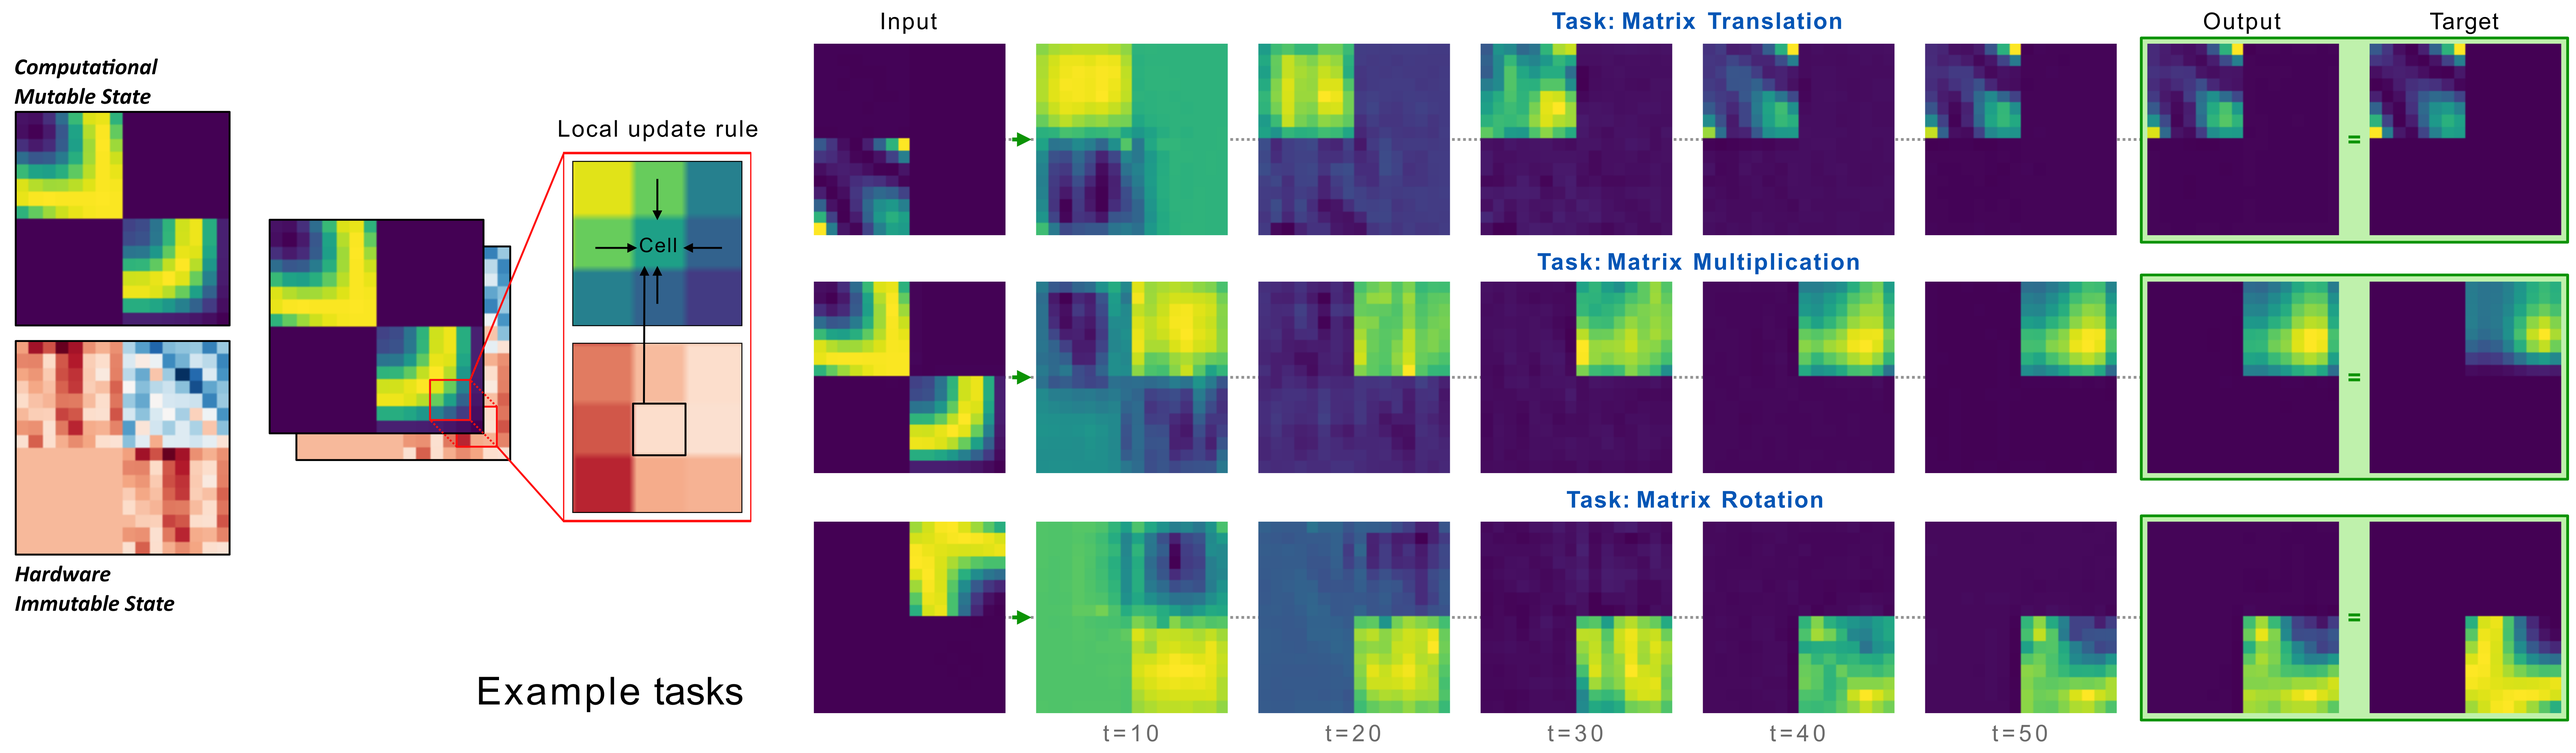
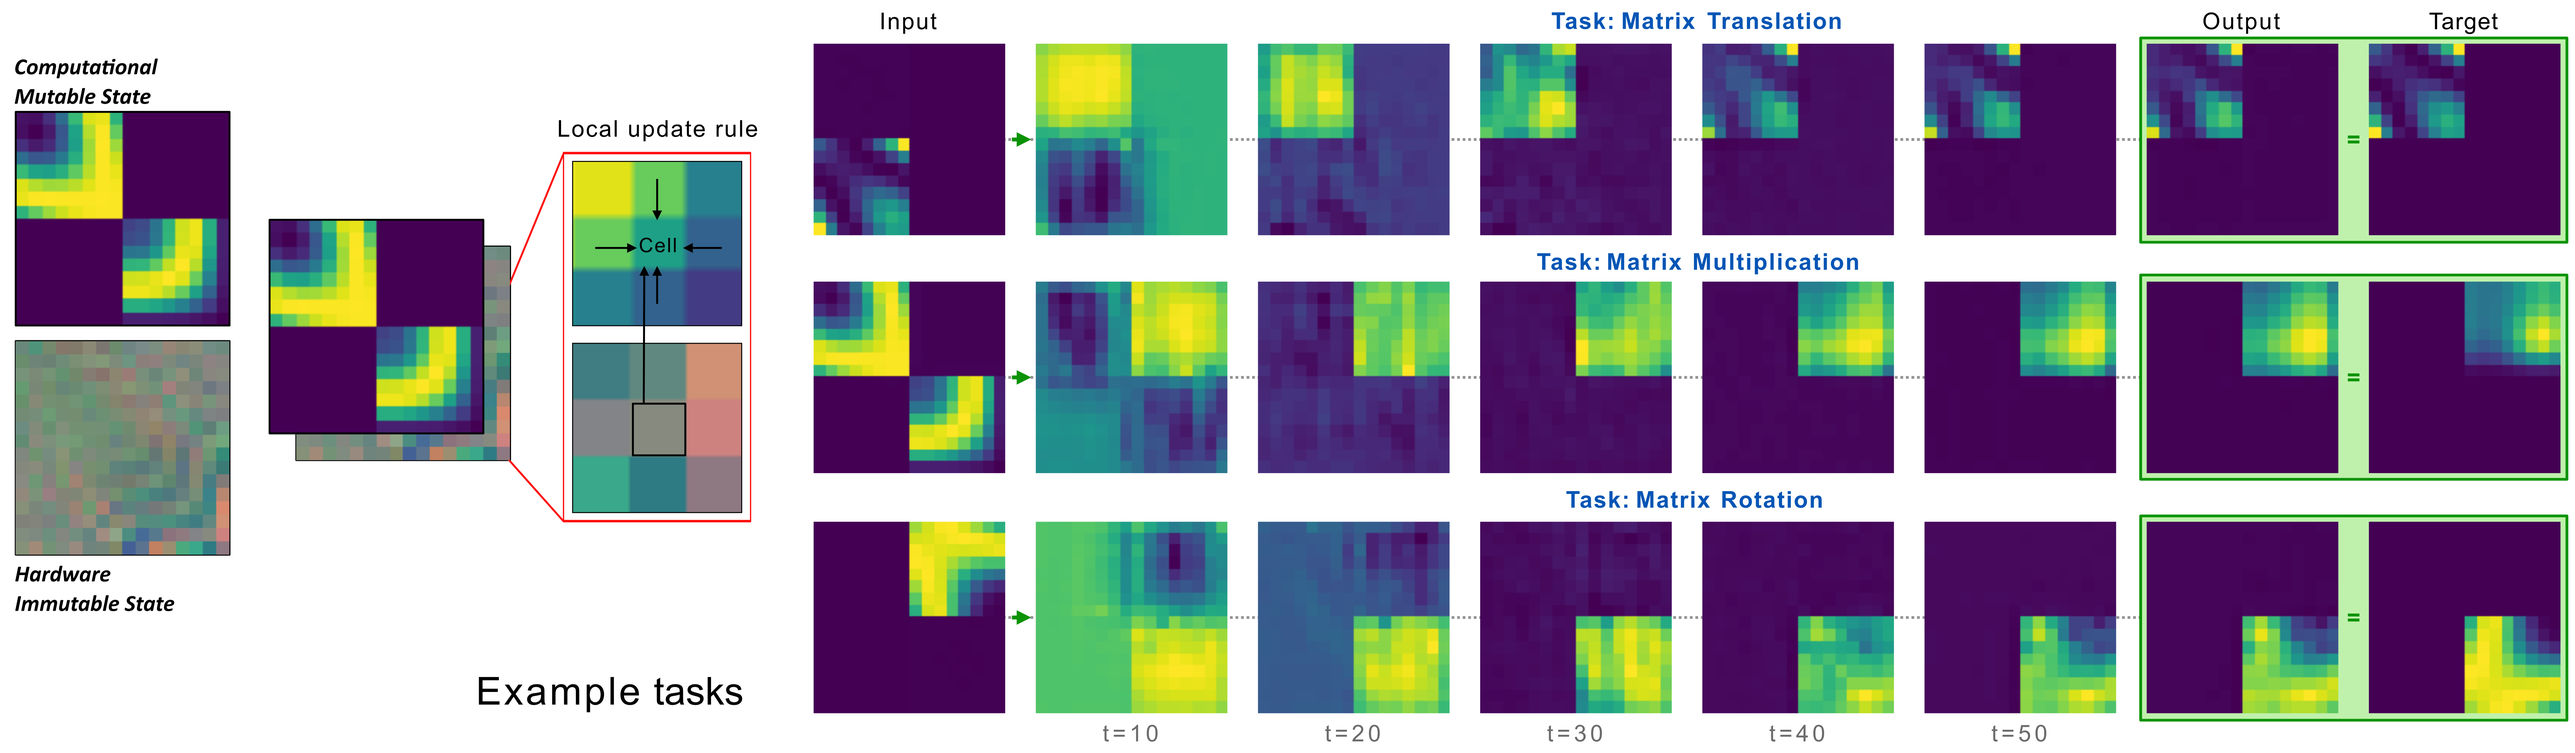
Latest related work and refs + better figs

Changed region(s): [[0.0, 0.3086, 0.3114, 0.7407]]

diff --git a/_posts/2025-05-12-distill_compact.md b/_posts/2025-05-12-distill_compact.md
@@ -50,7 +50,6 @@ toc:
       - name: MNIST Classifier emulation
       - name: Future directions - task composition and neural compiler
   - name: Conclusion
-
 ---
 
 <!-- <d-article> -->
@@ -78,6 +77,8 @@ The lack of discrete states and well-defined transitions makes it harder to enco
 
 Neural Cellular Automata (NCA) represent a paradigm shift by replacing hand-crafted rules with neural networks trained via gradient descent <d-cite key="nca"></d-cite>. Unlike traditional CA with explicitly handcrafted rules, NCA leverage differentiable architectures where the update rule is parameterized by a neural network and optimized end-to-end. This makes it possible to _learn_ complex behaviors from data, bypassing the need for manual rule design. NCAs have demonstrated success in tasks ranging from morphogenesis <d-cite key="nca"></d-cite> and classification <d-cite key="self_classifying"></d-cite> to solving reasoning challenges <d-cite key="cax"></d-cite> and growing neural networks <d-cite key="hypernca"></d-cite>. Given the Turing completeness of classical CA, NCA offer an exciting opportunity to search for computational rules through optimization, turning rule discovery into a machine learning problem. This shift is significant: the traditionally arduous task of hand-crafting rule sets that give rise to desired behaviors is now offloaded to the learning algorithm itself.
 
+It is important to note that the use of NCA in computational settings has precedent. Matrix copy and multiplication tasks were first implemented with NCA by Peter Whidden <d-cite key="comp_nca"></d-cite>, and our approach builds upon this foundational idea that NCA can serve as a continuous computational substrate. Very recently, researchers have demonstrated that NCA rules can be implemented using differentiable logic gates <d-cite key="difflogic_nca"></d-cite>, confirming the possibility of running self-organizing systems on standard digital hardware. Finally, in parallel to our work, a similar approach <d-cite key="engram_nca"></d-cite> was developed where cells augmented with "private memory tapes" were shown to exhibit stable, multi-task capabilities, further validating the potential of NCA as versatile computing platforms.
+
 Our work connects to analog computing and neuromorphic systems, which leverage biological principles like local computations <d-cite key="small_world,modular_brain,Bullmore2012TheEO"></d-cite> and co-located memory and processing to overcome the von Neumann bottleneck <d-cite key="bottlneck"></d-cite>. Neuromorphic systems implement these principles through distributed processing elements with local memory, using mixed-signal circuits that approximate neural dynamics while maintaining energy efficiency <d-cite key="neuromorphic_mead,neuromorphic_review,schuman2017surveyneuromorphiccomputingneural"></d-cite>. By exploring how systems with local interactions can implement universal computation, we aim to develop computing architectures that balance computational power with the efficiency characteristic of biological intelligence.
 
 In this work, we explore the potential of the Neural Cellular Automata paradigm to develop a continuous Universal Cellular Automata <d-cite key="universal_ca"></d-cite>, with the ambitious goal of inducing a universal Turing machine <d-cite key="universal_turing_machine"></d-cite> to emerge through gradient descent training. This has implications beyond academic curiosity, touching on fundamental questions about continuous dynamic systems' computational potential and the possibility of creating universal analog computers.
@@ -94,9 +95,9 @@ Our framework demonstrates neural cellular automata's capability to act as a gen
 
 - **Mutable state**: The main computational workspace where inputs are transformed into outputs. This state changes through time during task execution, governed by NCA rules.
 
-- **Immutable state**: A specialized hardware configuration that remains fixed during any single experiment. This state can be monolithic (uniform across the grid) or modular (composed of different specialized components).
+- **Immutable state**: A specialized hardware configuration that remains fixed during any single experiment. This hardware can itself be monolithic (trained as a block, the same shape as the entire grid), modular (created from different specialized components for each task specific instance), or even generated from a graph-based hypernetwork (see Future directions). This is learned across training but fixed in any duration of a single experiment / task instance.
 
-This separation enables a two-level optimization: at the global level, we train a general-purpose NCA rule to support diverse operations, while at the task-specific level, we optimize hardware configurations. The system adapts its dynamics using the local available hardware, similar to how different components on a motherboard enable different functions.
+This separation enables a two-level optimization: at the global level, we train a general-purpose NCA rule to support diverse operations, while at the task-specific level, we optimize hardware configurations. The system adapts its dynamics using the local available hardware, similar to how different components on a motherboard enable different functions, using the same underlying physical substrate.
 
 <div class="row mt-3">
     <div class="col-sm mt-3 mt-md-0" style="background-color: white; border-radius: 8px; padding: 10px; border: 1px solid #ddd;">
@@ -114,17 +115,25 @@ Our NCA models solve tasks directly within their mutable state through local cel
 
 2. **Update Function**: Utilizes the perception vector and local hardware vector to update each cell's state. We use an attention-based update module that calculates state updates by conditioning perceived information on the local hardware.
 
-The attention mechanism computes weights over multiple processing heads using the hardware input: $\alpha = \text{softmax}((I \cdot W_{\text{embed}}) / T)$. The perception vector is processed through parallel pathways, generating potential update vectors for each head. The final state update is computed as a weighted sum of these vectors: $\Delta S = \sum_{h=1}^{N} \alpha_h V_h$, with cells updated residually: $S_{t+1} = S_t + \Delta S$.
+The key innovation in our update function is an attention mechanism that allows each cell to selectively route its computation based on its local hardware. Here's how it works:
 
-This mechanism allows the NCA to dynamically adapt based on the local hardware, enabling diverse computations with the same underlying update rule.
+1. Each cell receives a perception vector $P$ (local spatial patterns) and a hardware vector $I$ (its immutable state).
+
+2. The hardware vector $I$ activates different "computational modes" through an attention mechanism: $\alpha = \text{softmax}((I \cdot W_{\text{embed}}) / T)$, where $W_{\text{embed}}$ is a learned embedding matrix and $T$ is a temperature parameter controlling the sharpness of the activation.
+
+3. The perception vector $P$ is simultaneously processed through $N$ parallel pathways (implemented as MLPs), producing potential update vectors $V_h$ for each pathway.
+
+4. The final state update is computed as a weighted mixture of these pathways: $\Delta S = \sum_{h=1}^{N} \alpha_h V_h$, with the cell's state updated residually: $S_{t+1} = S_t + \Delta S$.
+
+This design allows the NCA to adapt its behavior dynamically based on the local hardware—cells in input regions might activate different computational pathways than those in output regions or computational zones. The result is a flexible computational substrate where the same underlying rule can perform diverse operations depending on the hardware context.
 
 ### Hardware (Immutable State)
 
-We explored two approaches for designing specialized hardware configurations:
+We explored different approaches for designing specialized hardware configurations:
 
 #### Monolithic Hardware
 
-Our initial implementation used task-specific parameters with the same spatial dimension as the computational state. While successful and visually interpretable, this approach lacks generalizability across different spatial configurations and matrix sizes.
+Our initial implementation used task-specific parameters with the same spatial dimension as the computational state. While successful and visually interpretable, this approach lacks generalizability across different spatial configurations and matrix sizes: concretely the a new hardware configuration needs to be trained for each new matrix size and placement.
 
 <div class="row mt-3">
     <div class="col-sm mt-3 mt-md-0" style="background-color: white; border-radius: 8px; padding: 10px; border: 1px solid #ddd;">
